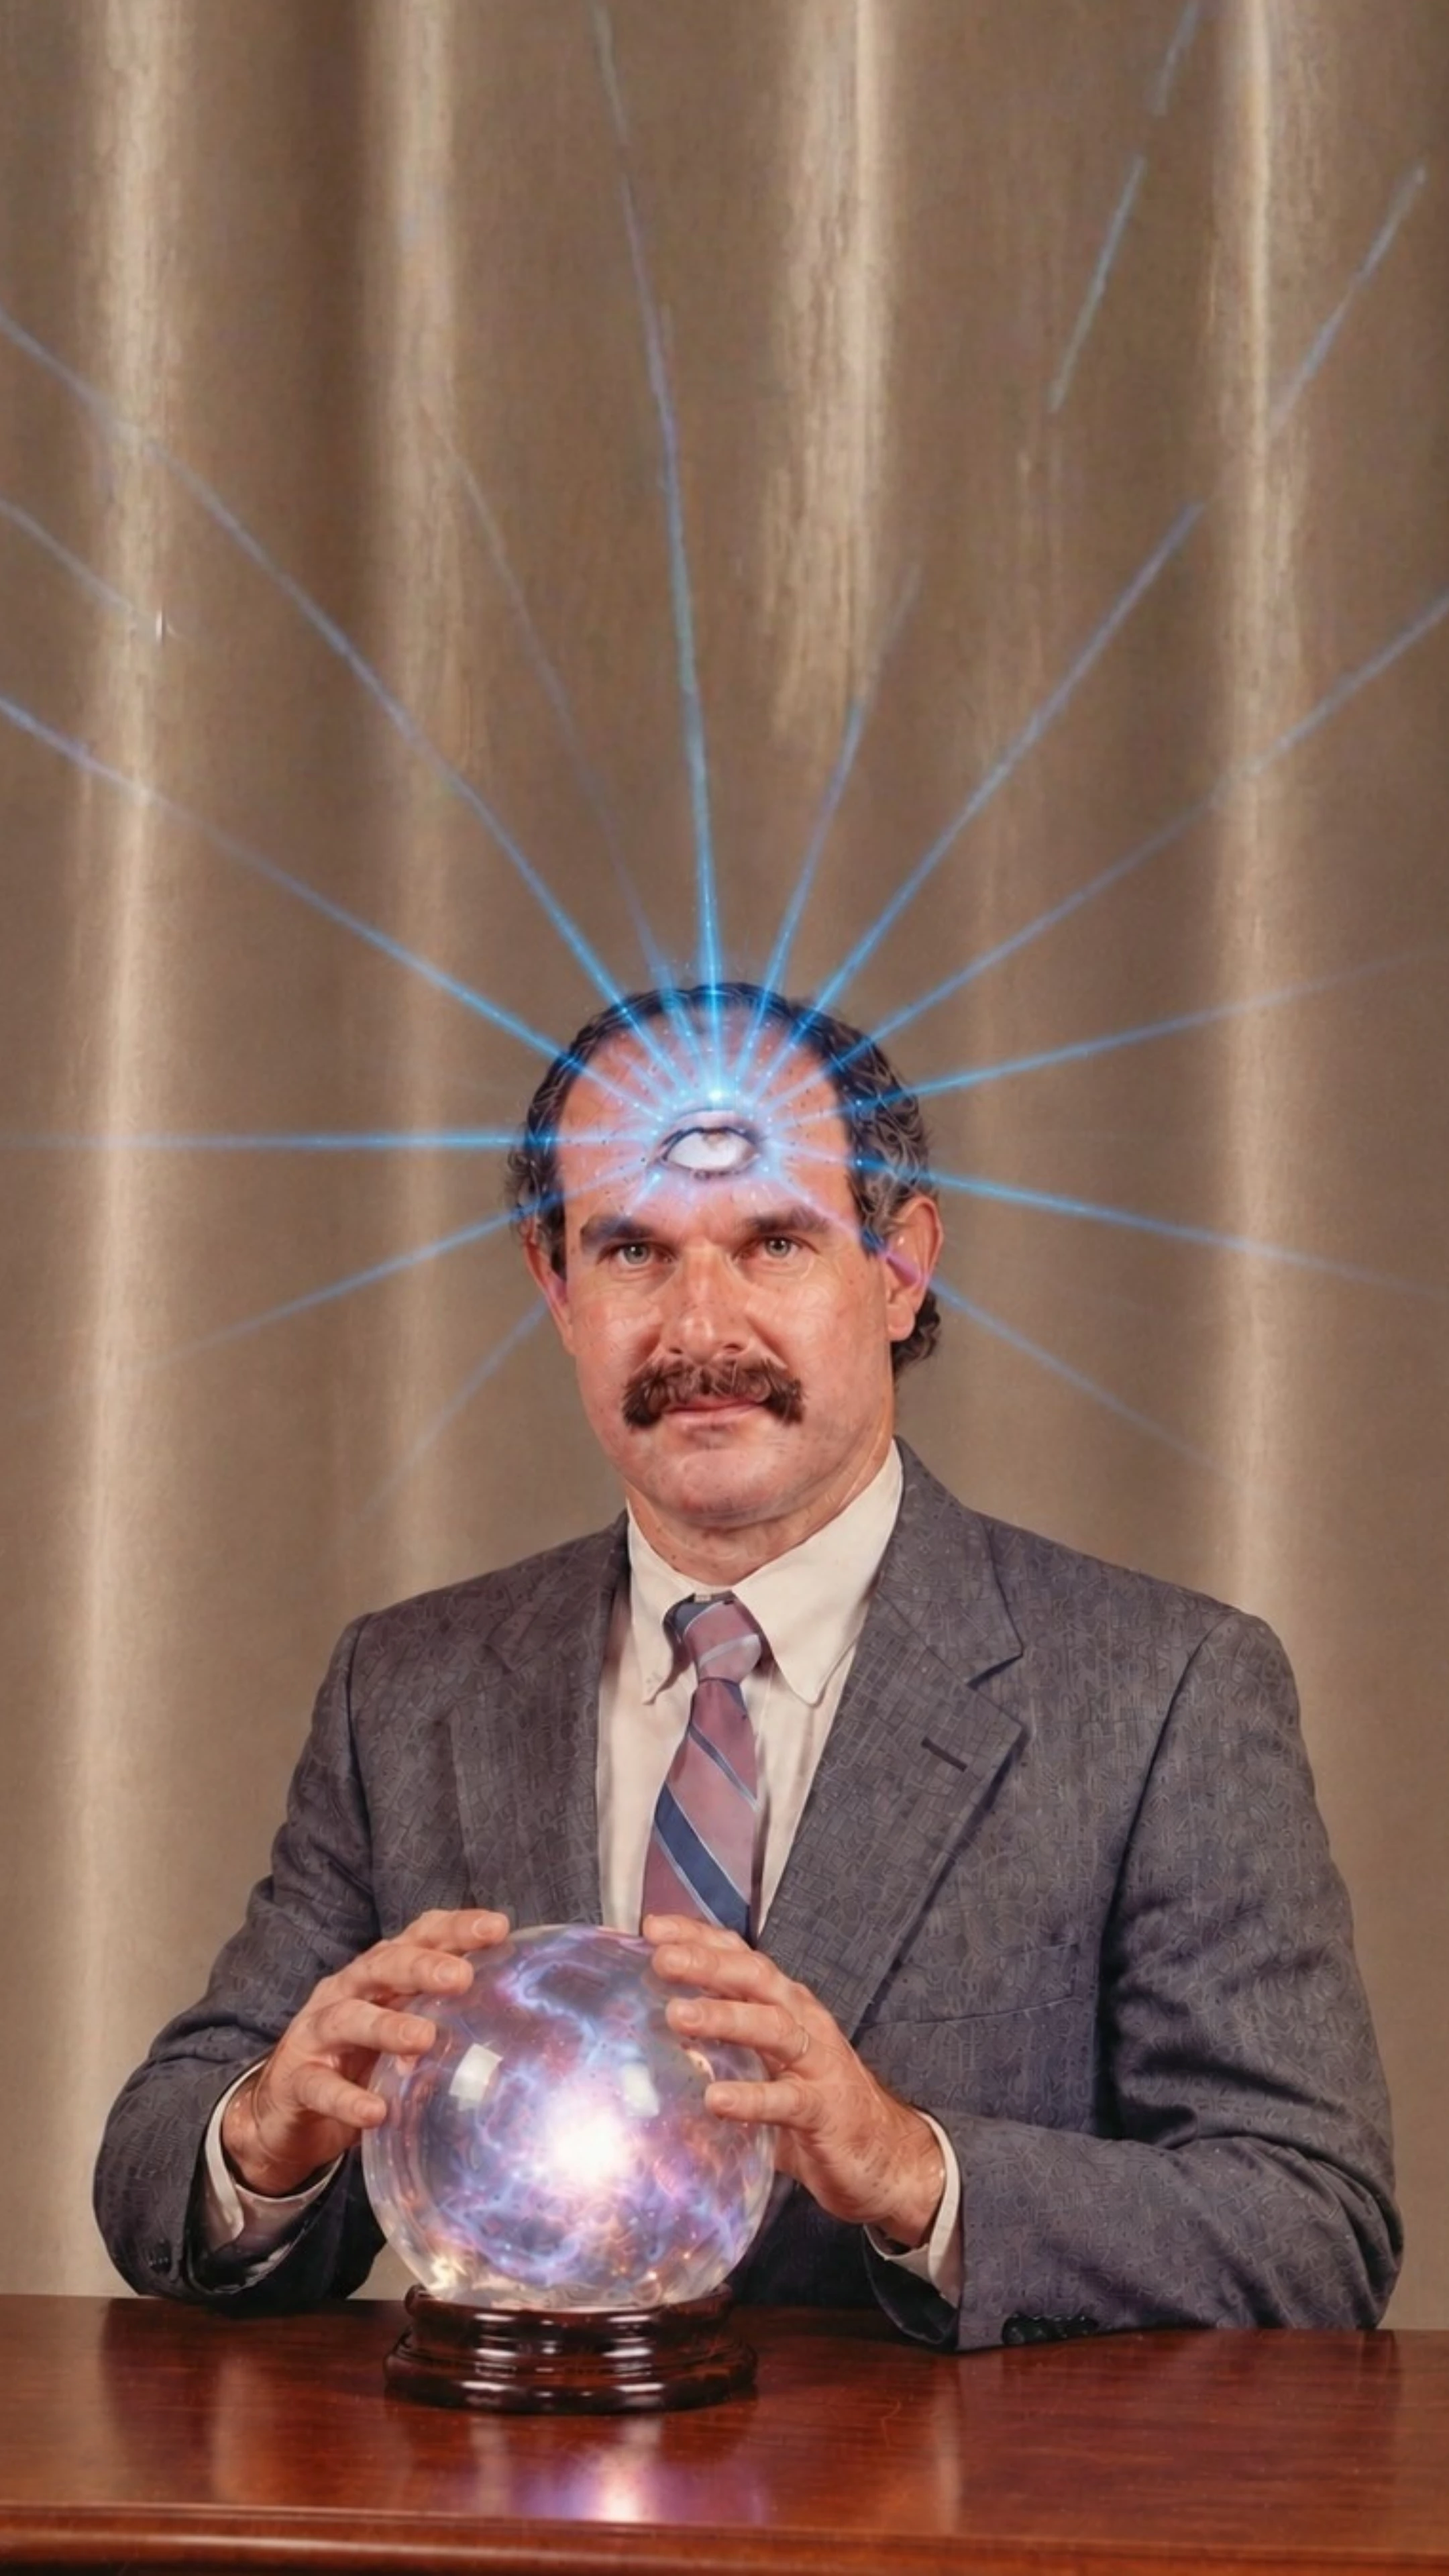
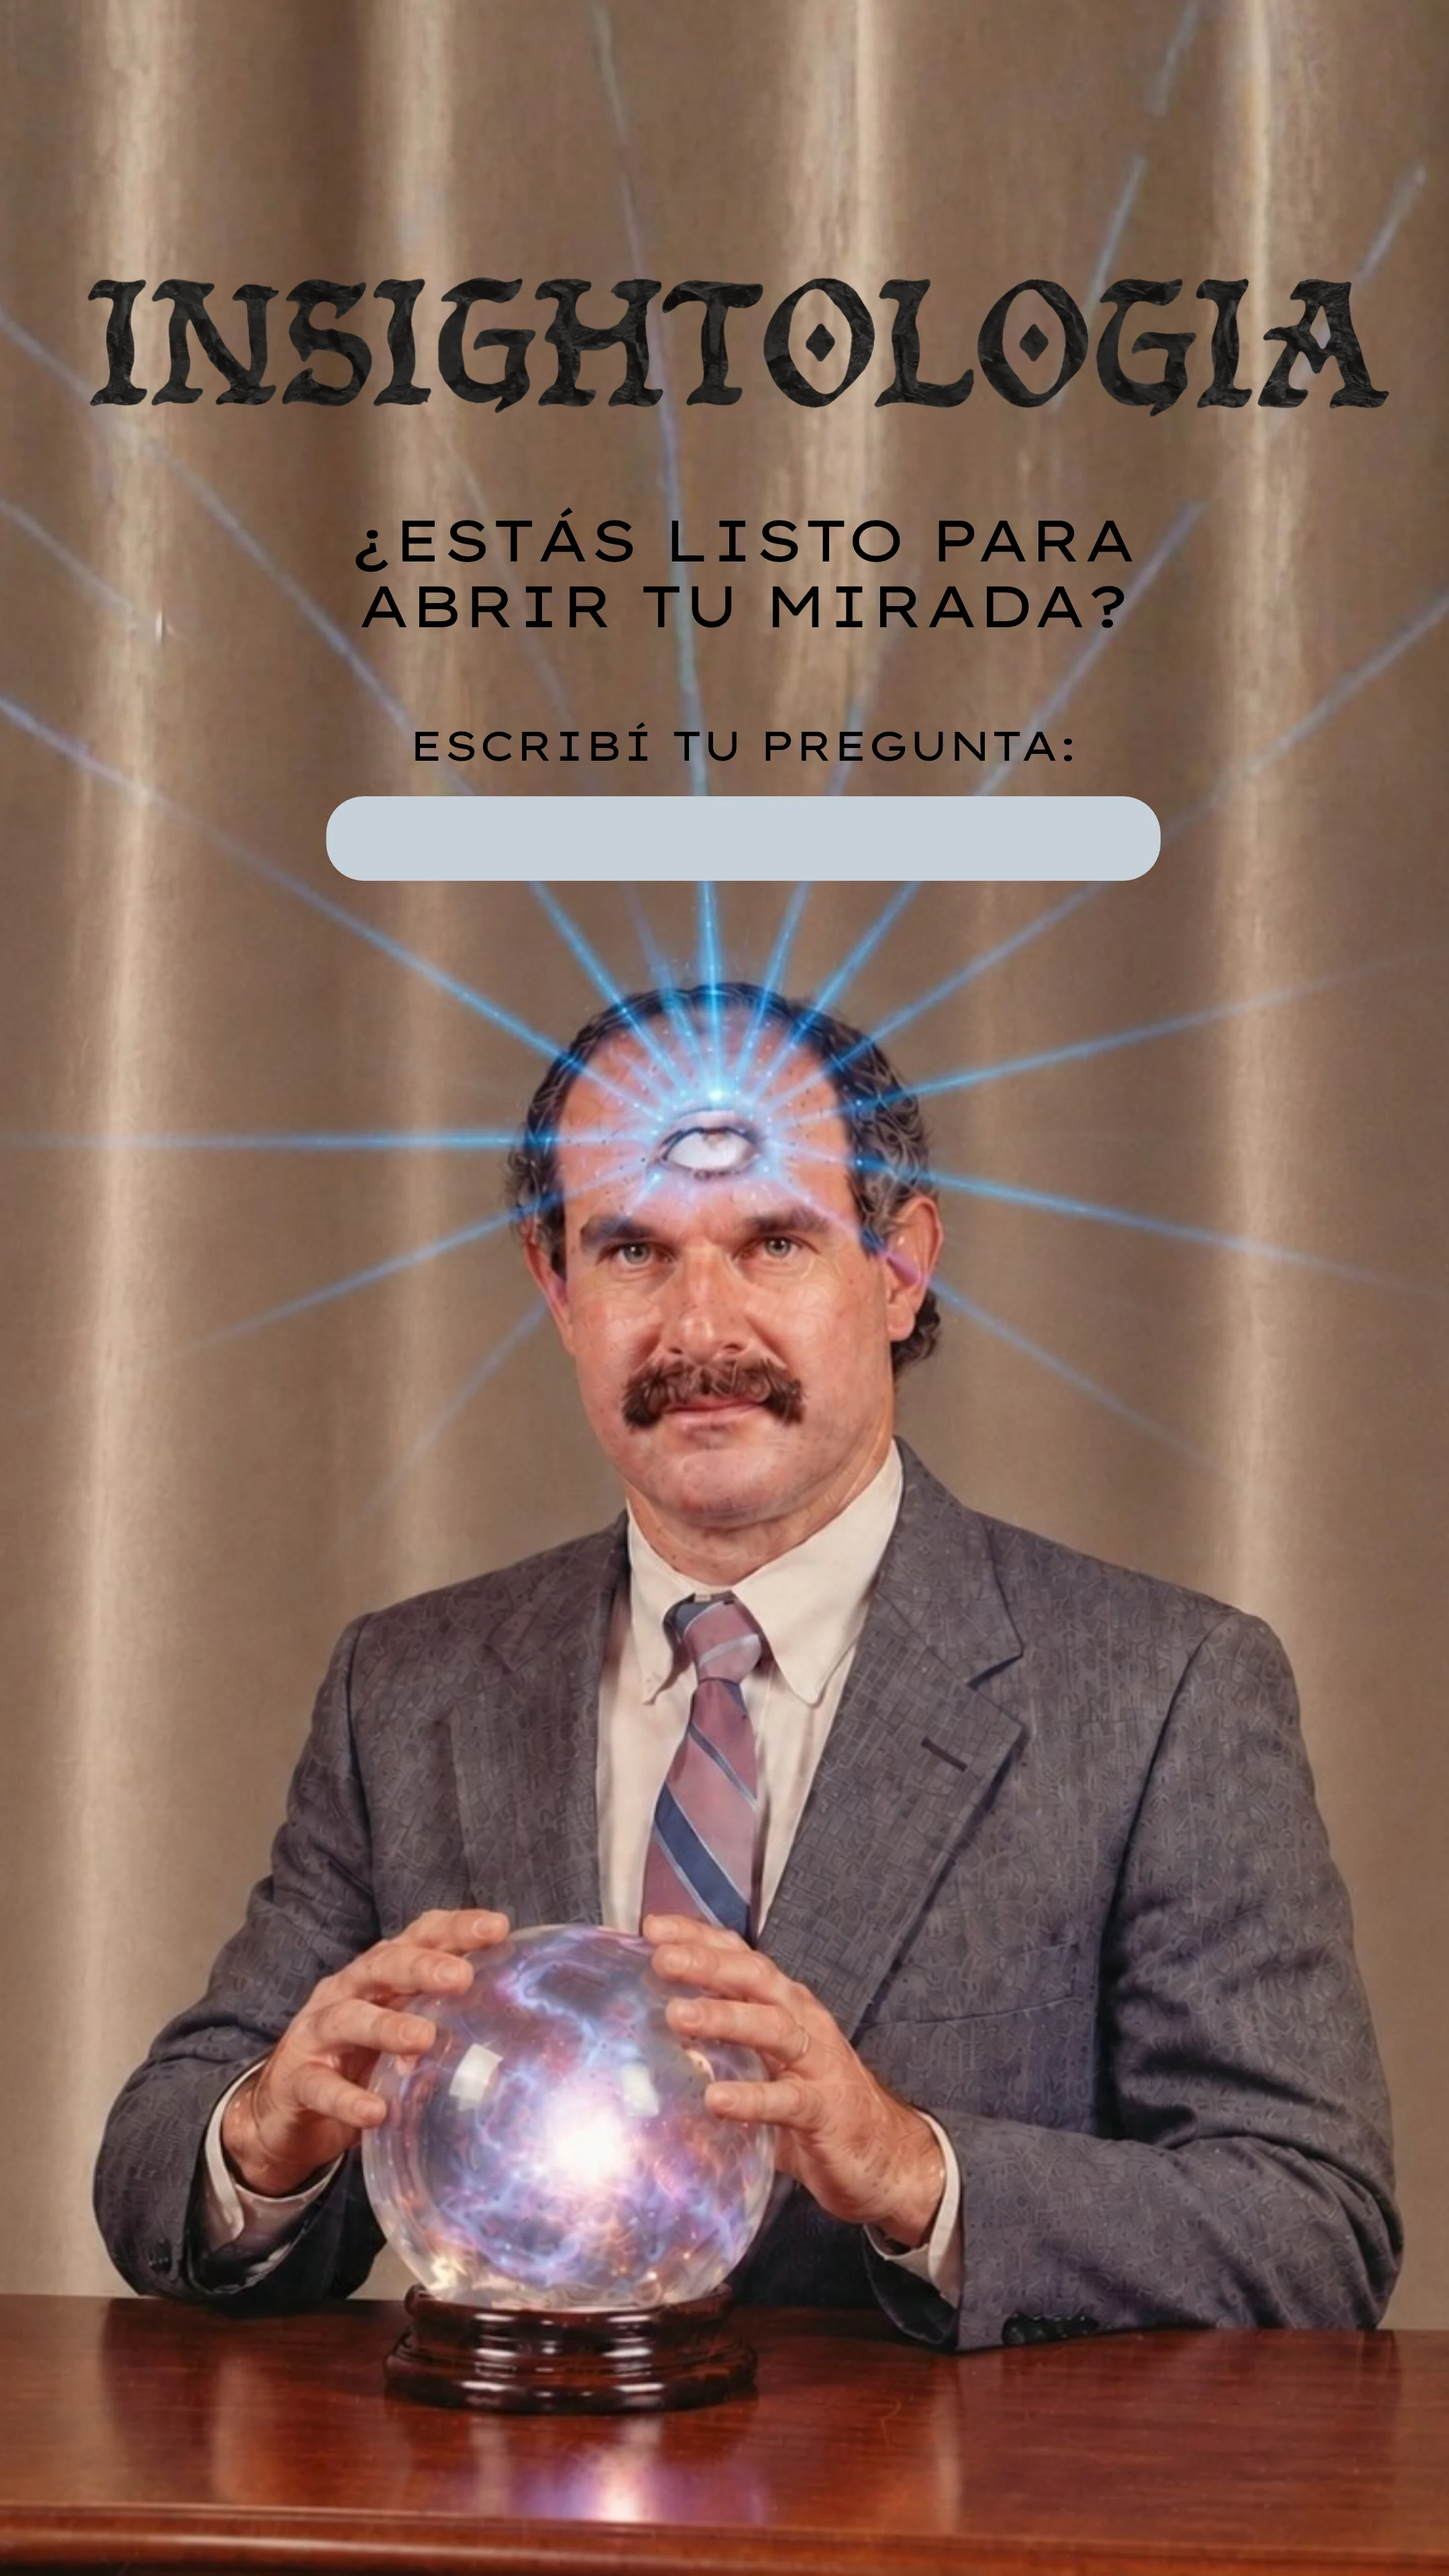
feat: actualizar fondo mobile sin pupila con arte final y recalibrar píldora de input

diff --git a/index.html b/index.html
@@ -16,7 +16,7 @@
   <link rel="preconnect" href="https://fonts.gstatic.com" crossorigin>
   <link href="https://fonts.googleapis.com/css2?family=Lexend+Tera:wght@400;500;600;700&family=Open+Sans:ital,wght@0,400;0,600;0,700;0,800;1,400&display=swap" rel="stylesheet">
 
-  <link rel="stylesheet" href="style.css?v=20261002-5">
+  <link rel="stylesheet" href="style.css?v=20261002-6">
   
   <!-- GSAP 3 -->
   <script src="https://cdnjs.cloudflare.com/ajax/libs/gsap/3.12.5/gsap.min.js"></script>
@@ -52,8 +52,8 @@
       
       <!-- 1. Background scene (adaptable a desktop 16:9 y mobile 9:16) -->
       <picture id="layer-scene-picture" class="stage-layer">
-        <source media="(max-width: 768px)" srcset="assets/escena-mobile-sin-pupila.webp">
-        <source media="(orientation: portrait)" srcset="assets/escena-mobile-sin-pupila.webp">
+        <source media="(max-width: 768px)" srcset="assets/escena-mobile-sin-pupila.webp?v=20261002-6">
+        <source media="(orientation: portrait)" srcset="assets/escena-mobile-sin-pupila.webp?v=20261002-6">
         <img id="layer-scene" class="stage-layer-img" src="assets/escena-sin-pupila.webp" alt="Escena del Oráculo" draggable="false">
       </picture>
 

diff --git a/style.css b/style.css
@@ -1000,10 +1000,10 @@ picture.stage-layer {
   /* Posición exacta del input sobre la píldora dibujada en el fondo mobile */
   #input-panel {
     position: absolute;
-    left: 21.06%;
-    top: 30.04%;
+    left: 22.55%;
+    top: 30.91%;
     width: 57.50%;
-    height: 3.38%;
+    height: 3.26%;
     max-width: none;
     transform: none;
     z-index: 5;
